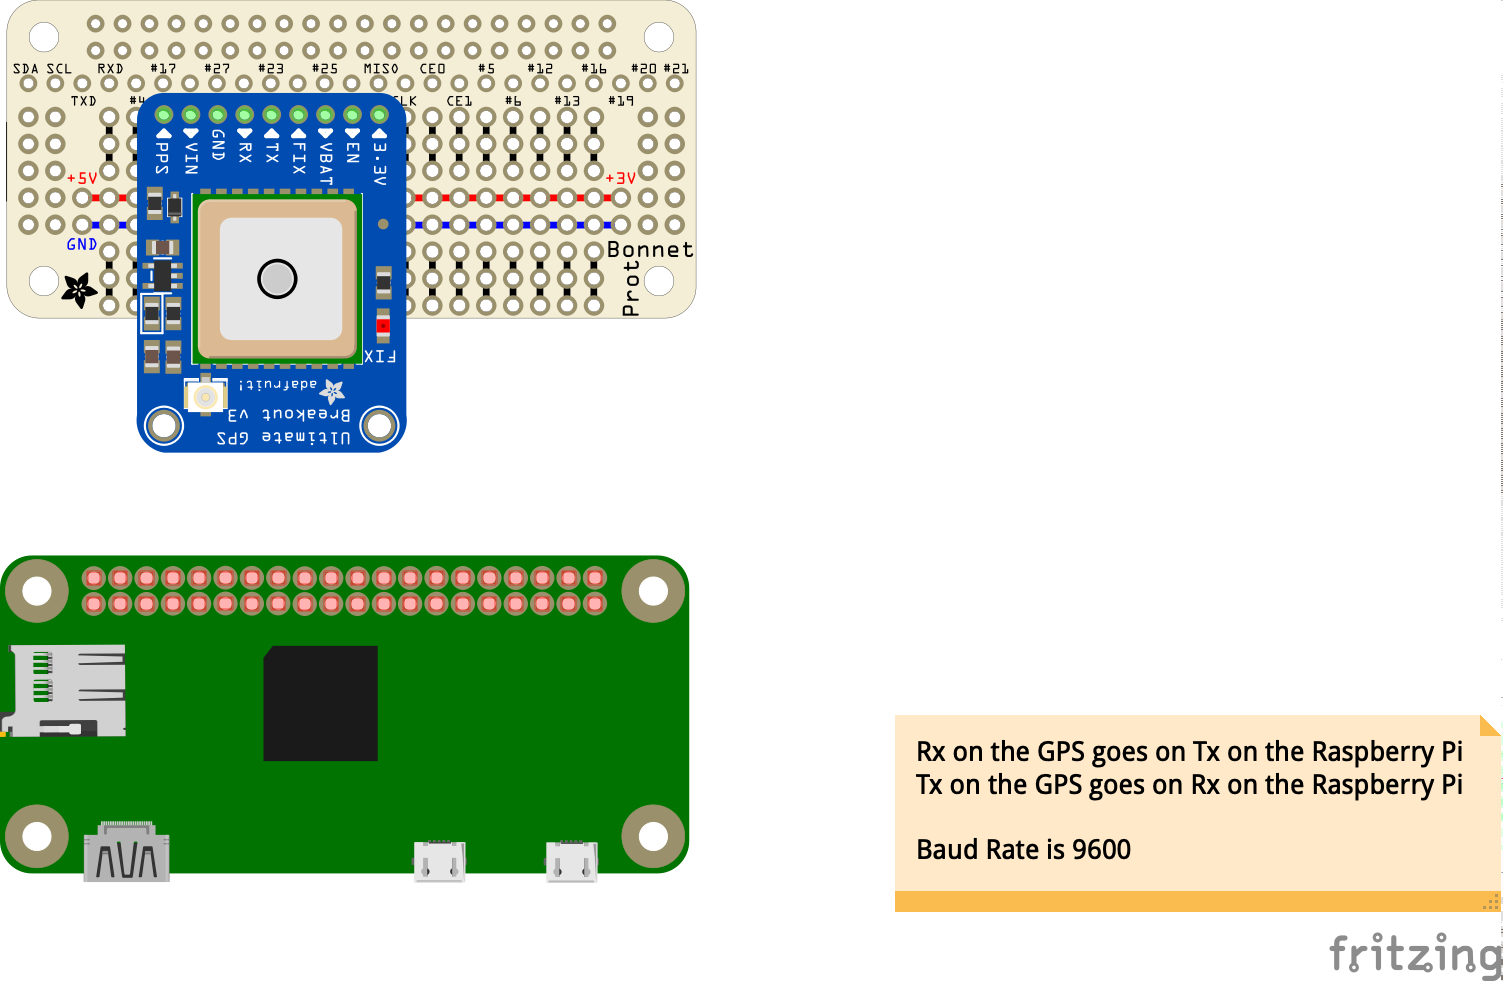
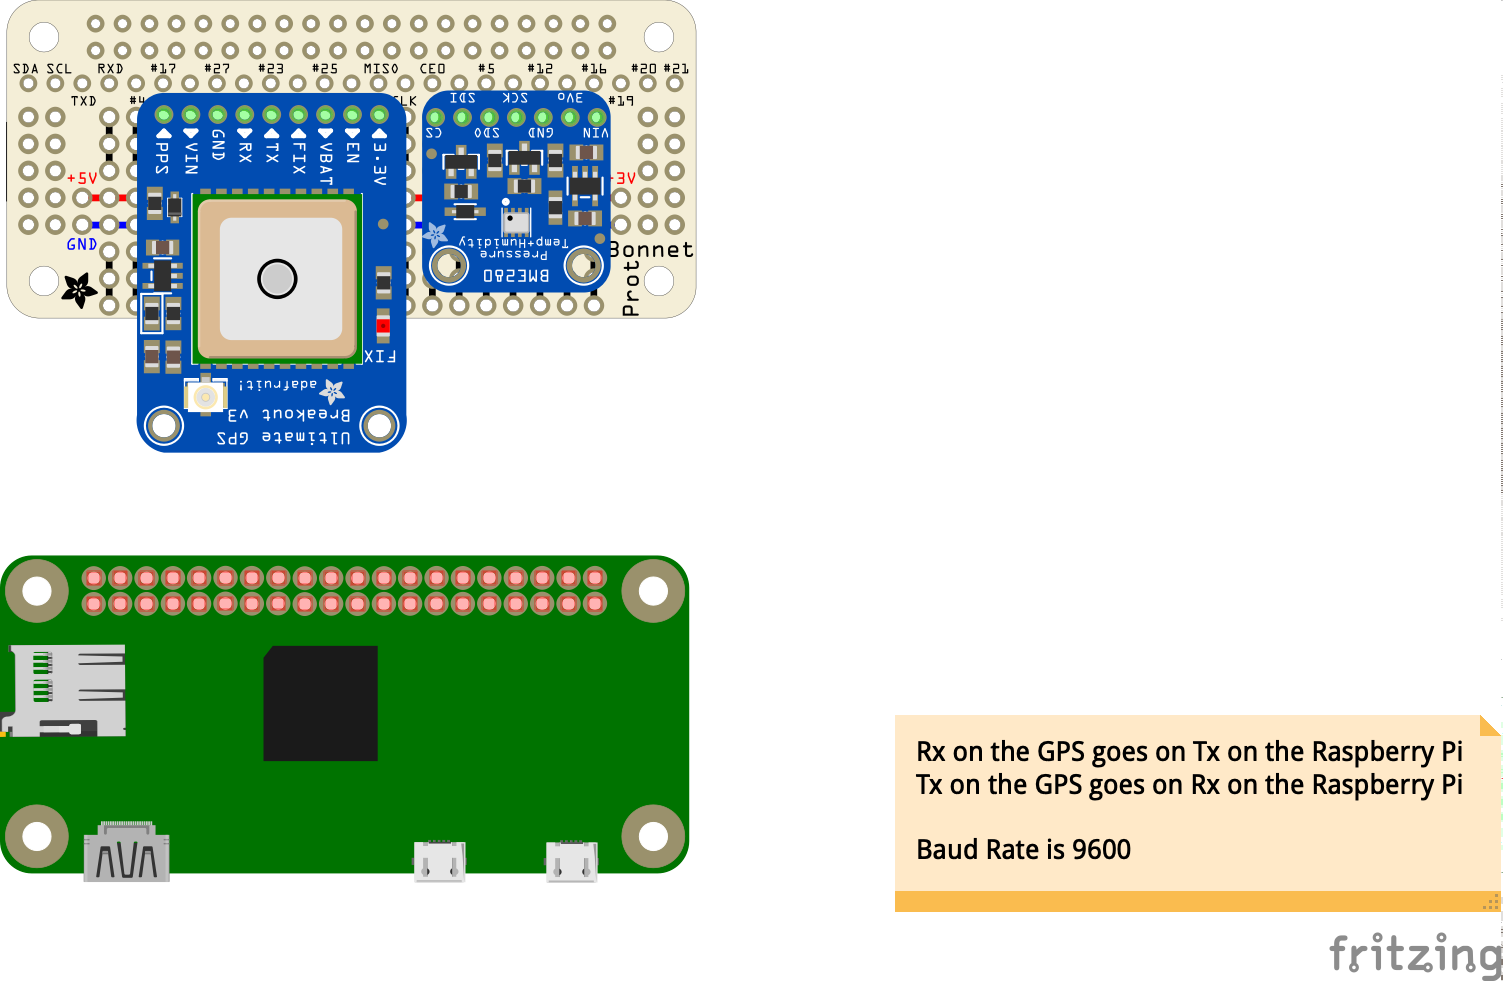
Added a BME280 to the small logger

Changed region(s): [[0.2754, 0.0917, 0.4285, 0.3058]]

diff --git a/NMEA.mux.WebUI/small.server.extended/README.md b/NMEA.mux.WebUI/small.server.extended/README.md
@@ -2,7 +2,7 @@
 **Features**:
 - 2 Adafruit Bonnets
     - One with a 132x64 oled screen, 2 push buttons, 1 switch
-    - One with the Adafruit Ultimate GPS
+    - One with the Adafruit Ultimate GPS and a BME280 (Humidity, Temperature, Atmospheric Pressure)
 - LiPo battery
 - Buttons can be used to scroll through the different displays
     - also features a "local" menu (to be browsed with the buttons) that can execute different tasks, easy to customize like
@@ -32,6 +32,12 @@ Implements `simple-click`, `double-click`, and `long-click`.
 final static PushButtonMaster pbmOne = new PushButtonMaster();
 final static PushButtonMaster pbmTwo = new PushButtonMaster();
 ```
+
+> Note: the code to add here is just here for the buttons management. There is _absolutely no code_
+> to add for the `BMP280`, the GPS, or the SSD1306` screen. It is all taken care of by the properties files.
+
+> See `nmea.mux.gps.log.properties` to know how to reference those devices, and 
+> `ssd1306.properties` to see how to choose the data to display on the oled screen. 
 
 This is built just like the other examples in this module, just run
 ```
